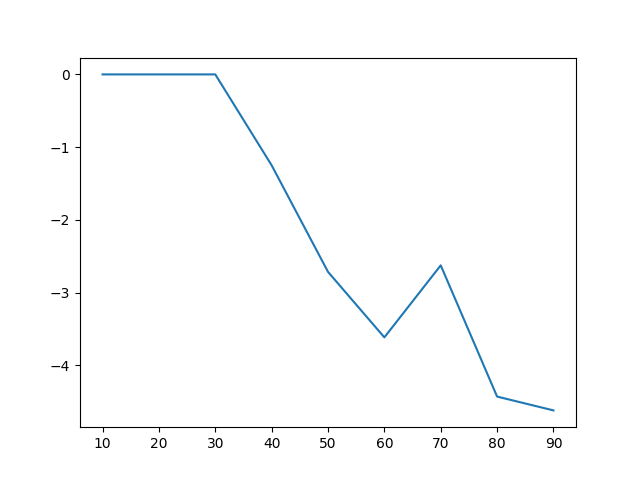
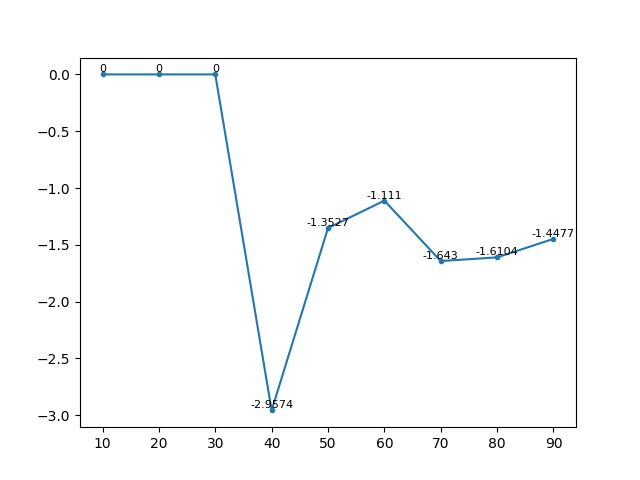
result plots

diff --git a/topic_analyze.py b/topic_analyze.py
@@ -3,7 +3,7 @@ import matplotlib.pyplot as plt
 import numpy as np
 
 
-path = "data/models/framework"
+path = "data/models/web-crawler"
 file = "/test_result_" + path.split('/')[2] + ".json"
 
 def drawPlot(xPoints, yPoints, name):
